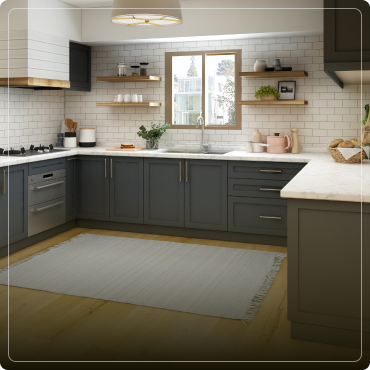
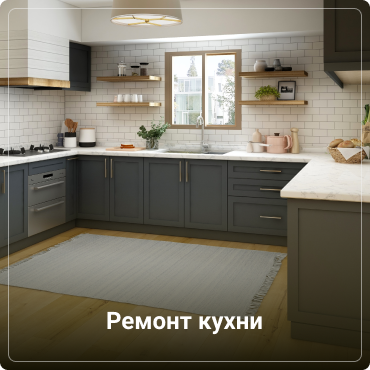
fix: img for section of services and title button of header

Changed region(s): [[0.2676, 0.8324, 0.7135, 0.9216]]

diff --git a/src/index.html b/src/index.html
@@ -44,11 +44,11 @@
                 <img src="assets/images/icons/whatsapp.svg" alt="whatsapp" />
               </div>
               <div class="phone__number">
-                <a href="tel:+375298244954">+375 (29) 824-49-54</a>
+                <a href="tel:+375298244954">+375 (29) 706-15-17</a>
               </div>
             </div>
             <div class="phone__consultation">
-              <button class="phone__btn">Бесплатная консультация</button>
+              <button class="phone__btn">Заказать звонок</button>
             </div>
           </div>
           <button class="nav-toggle" id="nav_toggle" type="button">
@@ -117,31 +117,26 @@
                 alt="apartment"
               />
             </div>
-            <div class="services__text">Ремонт квартиры</div>
           </div>
           <div class="services__item">
             <div class="services__img">
               <img src="./assets/images/services/office.png" alt="office" />
             </div>
-            <div class="services__text">Ремонт офиса</div>
           </div>
           <div class="services__item">
             <div class="services__img">
               <img src="./assets/images/services/bathroom.png" alt="bathroom" />
             </div>
-            <div class="services__text">Ремонт ванной</div>
           </div>
           <div class="services__item">
             <div class="services__img">
               <img src="./assets/images/services/kitchen.png" alt="kitchen" />
             </div>
-            <div class="services__text">Ремонт кухни</div>
           </div>
           <div class="services__item">
             <div class="services__img">
               <img src="./assets/images/services/toilet.png" alt="toilet" />
             </div>
-            <div class="services__text">Ремонт санузла</div>
           </div>
           <div class="services__item">
             <div class="services__img">
@@ -150,7 +145,6 @@
                 alt="andsscaping"
               />
             </div>
-            <div class="services__text">Благоустройство</div>
           </div>
         </div>
       </div>

diff --git a/src/scss/layouts/_services.scss b/src/scss/layouts/_services.scss
@@ -12,7 +12,6 @@
   width: 1094;
   display: flex;
   flex-wrap: wrap;
-  // justify-content: space-between;
   padding-top: 45px;
   padding-left: 25px;
   padding-bottom: 16px;
@@ -47,6 +46,7 @@
 }
 
 .services__item {
+  cursor: pointer;
   position: relative;
   flex-basis: 31%;
 
@@ -55,26 +55,10 @@
   padding-bottom: 35px;
 }
 
-// .services__item:nth-child(4),
-// .services__item:nth-child(5),
-// .services__item:nth-child(6) {
-//   margin-bottom: 0;
-// }
-
 .services__img img {
   display: block;
   max-width: 100%;
   height: auto;
-}
-
-.services__text {
-  position: absolute;
-  text-align: center;
-  font-size: 24px;
-  font-weight: 700;
-  top: 306px;
-  left: 25%;
-  color: $color-prim;
 }
 
 @media (max-width: 768px) {
